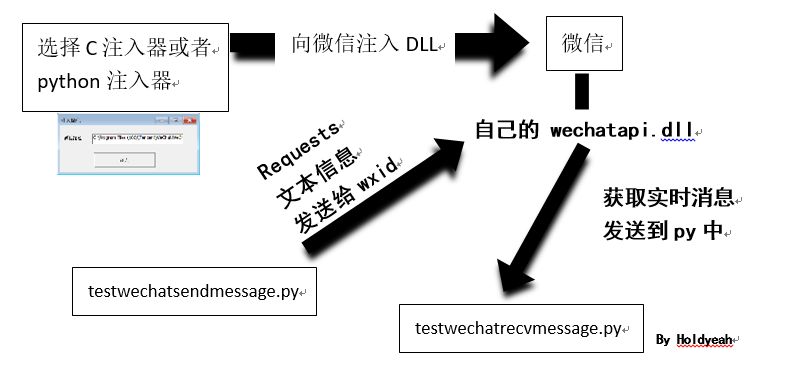
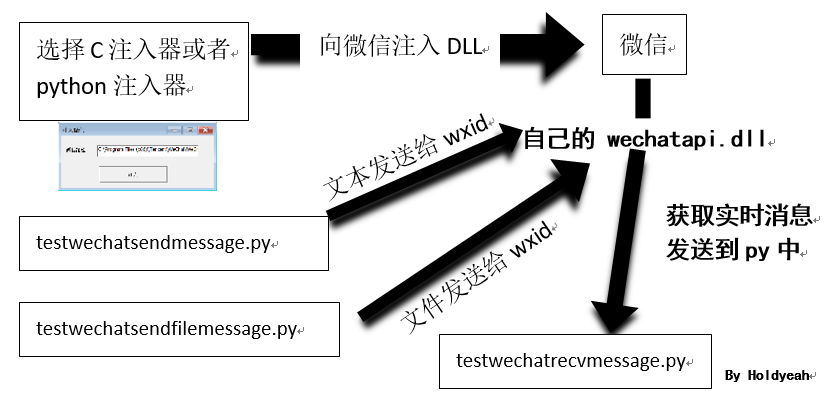
3.2.1.127新加内容

diff --git a/README.md b/README.md
@@ -2,7 +2,7 @@
 
 hookpc微信客户端的发消息和收消息,运用python自动化收发消息   
 
-基本功能：通过python注入dll到微信中，dll有一个发消息api和一个传递出接收文本消息GET   
+基本功能：通过python注入dll到微信中，WeChatApi.dll功能(发文本消息api、接收文本消息GET、发文件消息api)   
 
 微信的版本：   
 ~~2.6.8.56(2.6.8.56版本发消息call偏移是0x316463)~~   
@@ -10,14 +10,14 @@ hookpc微信客户端的发消息和收消息,运用python自动化收发消息
 ~~2.8.0.133(2.8.0.133版本发消息call偏移是0x32A760)~~  
 ~~3.0.0.47(3.0.0.47版本发消息call偏移是0x38DAB0)~~  
 ~~3.0.0.57(3.0.0.57版本发消息call偏移是0x38D8A0)~~  
-3.2.1.127(3.2.1.127版本发消息call偏移是0x3B56A0) 目前只检验了wechatapi代码
+3.2.1.127(3.2.1.127版本发消息call偏移是0x3B56A0) 只检验了wechatapi文件代码，SendMessage文件内的偏移未修改
 
 
 开发环境：VS2017使用C++的桌面开发,python3.7.3 32位(备注：64位python可能无法注入dll到微信)   
 
 如何运行：在TeachDemos\Debug\下找到TeachDemos.exe以管理员运行,TeachDemos.exe(默认微信路径是)会加载同目录下的SendMessage.dll到微信中去    
 
-或者修改python_hook.py(python注入器 需要安装模块 psutil ctypes-callable pywin32)内的dll_path路径运行python_hook.py 可以注入dll到微信中去   
+或者修改python_hook.py(python注入器 需要安装模块 psutil ctypes-callable pywin32)内的dll_path路径运行python_hook.py 可以注入dll到微信中去（运行需要管理员cmd或者powershell，目前测试了win7，win10，winser 2019都需要管理员权限运行）   
 
 #### SendMessage的DLL版本说明
 大神的https://github.com/hedada-hc/pc_wechat_hook    
@@ -30,9 +30,10 @@ wxid.txt 存放微信id
 操作方法：先点击获取信息 然后在id/wxid 填写数据 然后点击发送消息即可   
 
 #### WeChatApi的DLL版本说明
-在大佬https://github.com/wsbblyy/wechat-pc-hook-api 的发消息api基础上增加了自己的一个传递出接收文本消息GET   
+在大佬https://github.com/wsbblyy/wechat-pc-hook-api 的发消息api基础上增加了自己的一个传递出接收文本消息GET，和发送文件信息api   
 testwechatrecvmessage.py是一个接收测试demo(需要安装模块 flask)   
-testwechatsendmessage.py是一个发消息测试demo   
+testwechatsendmessage.py是一个发文本消息测试demo(http://127.0.0.1:2020/send)   
+testwechatsendfilemessage.py是一个发文件消息测试demo(http://127.0.0.1:2020/file)   
 weChatApi自己生成了一个dll 如果需要自己生成dll 平台选择修改x86 还需要在工程配置修改以下几个地方
 ```
 1、选择左边VC++ 目录，在右边包含目录添加$(ProjectDir)\libcurl-vc15-x86\include;
@@ -44,6 +45,7 @@ weChatApi自己生成了一个dll 如果需要自己生成dll 平台选择修改
 操作说明：TeachDemos.exe 或 python_hook.py 注入 weChatApi.dll,注入后自动开启HTTP服务    
 运行testwechatrecvmessage.py即可接受到消息    
 修改里面的wxid_****运行testwechatsendmessage.py即可发文本消息    
+修改里面的wxid_****运行testwechatsendfilemessage.py即可发文件消息    
 
 # 结构说明
 
